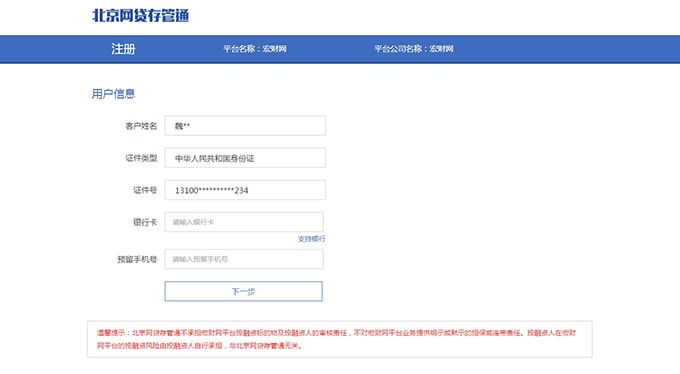
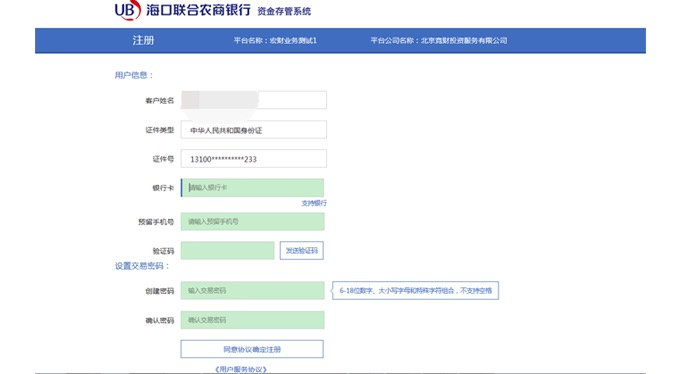
fix(all) 银行存管相关图片修改

diff --git a/app/views/novice-guide.html b/app/views/novice-guide.html
@@ -124,8 +124,8 @@
 			</div>
 			<div class="strengths-content">
 				<div class="strengths">
-					<p class="core core1" toggle-fade>银行存管</p>
-					<div class="txt core1-txt">宏财网积极落实监管政策，已正式对接海口联合农商银行资金存管系统。</div>
+					<p class="core core1" toggle-fade>资金存管</p>
+					<div class="txt core1-txt">宏财网积极落实监管政策，已率先对接北京网贷风险监控及资金存管系统。</div>
 					<p class="core core2" toggle-fade>风控严谨</p>
 					<div class="txt core2-txt">层层筛选，严格把控债权质量；足值抵押，落实担保；贷后管理，全流程风控管理。</div>
 					<p class="core core3" toggle-fade>便捷</p>
@@ -207,15 +207,9 @@
 				<div class="part3 part fp-tableCell">
 					<div class="con margin-l-40"></div>
        	 	<dl class="event one">
-       	 		<dt class="contain">宏财网正式加入北京网贷协会，与投哪网、微贷网等知名平台一同获得观察员身份。</dt>
+       	 		<dt class="contain">宏财网成功对接海口联合农商银行资金存管系统，标志着宏财网用户资金安全体系进一步完善。</dt>
        	 		<dd class="line"></dd>
-       	 		<dd class="time">2016.11</dd>
-       	 	</dl>
-       	 	<div class="con margin-pos5"></div>
-       	 	<dl class="event four">
-       	 		<dd class="time">2016.6</dd>
-       	 		<dd class="line"></dd>
-       	 		<dt class="contain">接入北京网贷风险监控及资金存管系统，用户资金由中信银行资金存管专用账户保管。</dt>
+       	 		<dd class="time">2017.6</dd>
        	 	</dl>
        	</div>
 				<div class="controlArrow prev"></div>
@@ -286,8 +280,8 @@
 					<ul class="clearfix">
 						<li class="li1 li_activ cursor-pt" data-target="#carousel-example-generic" data-slide-to="0">注册</li><li>-------------</li>
 						<li class="li2 cursor-pt" data-target="#carousel-example-generic" data-slide-to="2">认证</li><li>-------------</li>
-						<li class="li3 cursor-pt" data-target="#carousel-example-generic" data-slide-to="6">充值</li><li>-------------</li>
-						<li class="li4 cursor-pt" data-target="#carousel-example-generic" data-slide-to="9">投资</li>
+						<li class="li3 cursor-pt" data-target="#carousel-example-generic" data-slide-to="5">充值</li><li>-------------</li>
+						<li class="li4 cursor-pt" data-target="#carousel-example-generic" data-slide-to="8">投资</li>
 					</ul>
 				</div>
 				<div id="carousel-example-generic" class="carousel slide" data-ride="carousel">
@@ -304,7 +298,6 @@
 				    <li data-target="#carousel-example-generic" data-slide-to="8"></li>
 				    <li data-target="#carousel-example-generic" data-slide-to="9"></li>
 				    <li data-target="#carousel-example-generic" data-slide-to="10"></li>
-				    <li data-target="#carousel-example-generic" data-slide-to="11"></li>
 				  </ol>
 
 				  <!-- Wrapper for slides -->
@@ -313,36 +306,36 @@
 				      <img src="/images/novice-guide/process1.jpg" alt="..." >
 				    </div>
 				    <div class="item"  id="2">
-				      <img src="/images/novice-guide/process2.jpg" alt="...">
+				      <img src="/images/novice-guide/process2.png" alt="...">
 				    </div>
 				   	<div class="item" id="3">
-				   	  <img src="/images/novice-guide/process3.jpg" alt="...">
+				   	  <img src="/images/novice-guide/process3.png" alt="...">
 				   	</div>
 				   	<div class="item" id="4">
 				   	  <img src="/images/novice-guide/process4.jpg" alt="...">
 				   	</div>
-				   	<div class="item" id="5">
+				  <!--  	<div class="item" id="5">
 				   	  <img src="/images/novice-guide/process5.jpg" alt="...">
+				   	</div> -->
+				   	<div class="item" id="5">
+				   	  <img src="/images/novice-guide/process6.png" alt="...">
 				   	</div>
 				   	<div class="item" id="6">
-				   	  <img src="/images/novice-guide/process6.jpg" alt="...">
-				   	</div>
-				   	<div class="item" id="7">
 				   	  <img src="/images/novice-guide/process7.jpg" alt="...">
 				   	</div>
-				   	<div class="item" id="8">
-				   	  <img src="/images/novice-guide/process8.jpg" alt="...">
+				   	<div class="item" id="7">
+				   	  <img src="/images/novice-guide/process8.png" alt="...">
 				   	</div>
-				   	<div class="item" id="9">
+				   	<div class="item" id="8">
 				   	  <img src="/images/novice-guide/process9.jpg" alt="...">
 				   	</div>
-				   	<div class="item" id="10">
+				   	<div class="item" id="9">
 				   	  <img src="/images/novice-guide/process10.jpg" alt="...">
 				   	</div>
-				   	<div class="item" id="11">
-				   	  <img src="/images/novice-guide/process11.jpg" alt="...">
+				   	<div class="item" id="10">
+				   	  <img src="/images/novice-guide/process11.png" alt="...">
 				   	</div>
-				   	<div class="item" id="12">
+				   	<div class="item" id="11">
 				   	  <img src="/images/novice-guide/process12.jpg" alt="...">
 				   	</div>
 				  </div>
@@ -360,15 +353,15 @@
 					<p class="text-center ft-20 ft-grey666 margin-t-20" ng-switch-when="1">填写相关信息后点击注册</p>
 					<p class="text-center ft-20 ft-grey666 margin-t-20" ng-switch-when="2">注册成功后建议您立即开通银行存管账户</p>
 					<p class="text-center ft-20 ft-grey666 margin-t-20" ng-switch-when="3">请正确填写真实姓名和身份证号后点击立即开通</p>
-					<p class="text-center ft-20 ft-grey666 margin-t-20" ng-switch-when="4">请正确填写您本人名下的银行卡帐号和预留手机号</p>
-					<p class="text-center ft-20 ft-grey666 margin-t-20" ng-switch-when="5">请设置并牢记您的交易密码，交易密码用于充值、投资、提现、开通自动投资等操作。</p>
-					<p class="text-center ft-20 ft-grey666 margin-t-20" ng-switch-when="6">认证成功，可以去充值啦~</p>
-					<p class="text-center ft-20 ft-grey666 margin-t-20" ng-switch-when="7">请输入充值金额后点击确认充值</p>
-					<p class="text-center ft-20 ft-grey666 margin-t-20" ng-switch-when="8">请输入交易密码后点击支付</p>
-					<p class="text-center ft-20 ft-grey666 margin-t-20" ng-switch-when="9">充值成功后可以去投资啦~</p>
-					<p class="text-center ft-20 ft-grey666 margin-t-20" ng-switch-when="10">请输入投资金额后点击立即投资</p>
-					<p class="text-center ft-20 ft-grey666 margin-t-20" ng-switch-when="11">请输入交易密码后点击确定</p>
-					<p class="text-center ft-20 ft-grey666 margin-t-20" ng-switch-when="12">投资成功！</p>
+					<p class="text-center ft-20 ft-grey666 margin-t-20" ng-switch-when="4">请正确填写各项信息，并牢记您的交易密码，交易密码用于充值、投资、提现、等操作</p>
+					<!-- <p class="text-center ft-20 ft-grey666 margin-t-20" ng-switch-when="5">请设置并牢记您的交易密码，交易密码用于充值、投资、提现、开通自动投资等操作。</p> -->
+					<p class="text-center ft-20 ft-grey666 margin-t-20" ng-switch-when="5">认证成功，可以去充值啦~</p>
+					<p class="text-center ft-20 ft-grey666 margin-t-20" ng-switch-when="6">请输入充值金额后点击确认充值</p>
+					<p class="text-center ft-20 ft-grey666 margin-t-20" ng-switch-when="7">请输入交易密码后点击支付</p>
+					<p class="text-center ft-20 ft-grey666 margin-t-20" ng-switch-when="8">充值成功后可以去投资啦~</p>
+					<p class="text-center ft-20 ft-grey666 margin-t-20" ng-switch-when="9">请输入投资金额后点击立即投资</p>
+					<p class="text-center ft-20 ft-grey666 margin-t-20" ng-switch-when="10">请输入交易密码后点击确定</p>
+					<p class="text-center ft-20 ft-grey666 margin-t-20" ng-switch-when="11">投资成功！</p>
 				</div>
 			</div>
 		</div>

diff --git a/app/scripts/controller/help-center/novice-guide-ctrl.js b/app/scripts/controller/help-center/novice-guide-ctrl.js
@@ -136,9 +136,9 @@ angular.module('hongcaiApp')
 
       if(processId== 1 || processId ==2 ){
         $('.process-circle').find('.li1').addClass('li_activ').siblings().removeClass('li_activ');
-      }else if (processId >2 && processId < 7) {
+      }else if (processId >2 && processId < 6) {
         $('.process-circle').find('.li2').addClass('li_activ').siblings().removeClass('li_activ');
-      }else if( processId > 6 && processId < 10) {
+      }else if( processId > 5 && processId < 9) {
         $('.process-circle').find('.li3').addClass('li_activ').siblings().removeClass('li_activ');
       }else {
         $('.process-circle').find('.li4').addClass('li_activ').siblings().removeClass('li_activ');
